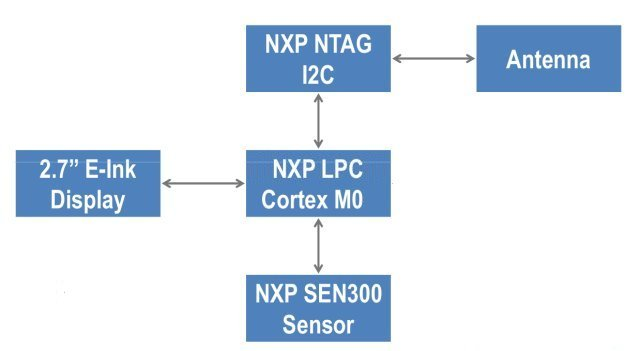
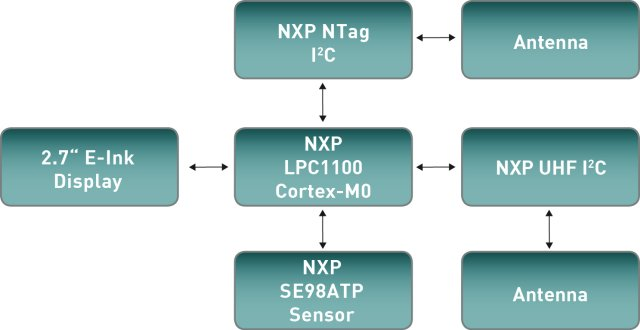
1.0.0H

diff --git a/source/appendix.rst b/source/appendix.rst
@@ -4,5 +4,4 @@ Appendix
 - **APK** stand for Android application PacKage and it is the package format used to distribuite and install application software onto Android operating system.
 - **E-Ink** (electrophoretic ink) is a specific proprietary type of electronic paper manufactured by E Ink Corporation (`E-Ink <http://www.eink.com>`_)
 - **NTAG** The NTAG family has been developed by NXP Semiconductors as standard NFC tag ICs to be used in mass market applications such as retail, gaming and consumer electronics, in combination with NFC devices or NFC compliant Proximity Coupling Devices.
-- **ISO/IEC 7816** is an international standard related to electronic identification cards with contacts, especially smart cards, managed jointly by the International Organization for Standardization (`ISO <http://www.iso.org>`_) and the International Electrotechnical Commission (`IEC <http://www.iec.ch>`_).
 - **LPC** NXP's portfolio of 32-bit LPC microcontrollers builds on 10 years of leadership and includes more than 330 options that cover every application class, from entry-level designs to high-end systems that run Linux OS. See `LPC <http://www.nxp.com/documents/line_card/75017512.pdf>`_.

diff --git a/source/update.rst b/source/update.rst
@@ -1,11 +1,21 @@
 Update
 ======
 
-Android Application Update
---------------------------
+Firmware Update by NFC (only application firmware)
+--------------------------------------------------
 
-Firmware Update
----------------
+.. important:
+
+ | Bootloader must be present on the Louvre board.
+
+- Use this QrCode in order to download and install the Android Updater Application on your phone. This software permits to upgrade the Louvre Application firmware.
+
+.. image:: _images/ArchitechLouvreQR.jpg
+
+When it is installed, launch the Updater Application and put the NFC antenna phone very close to the Louvre board.
+
+Firmware Update by USB (bootloader & application firmware)
+----------------------------------------------------------
 
 To update the firmware from USB you have to short the pin 1 CN4 with pin 2 CN4.
 
@@ -17,4 +27,3 @@ Then plug the mini-usb from the PC to the board.
 
 The LPC11U will run in boot mode and your PC will plug the board as a mass storage device. To update all you need is copy the new firmware renamed "firmware.bin" in the mass storage. Delete first the old one before to copy one newer.
  
-

diff --git a/source/development.rst b/source/development.rst
@@ -49,14 +49,21 @@ Once got the firmware source, unpack it into *C:\\nxp\\workspace* folder.
 Import Project
 --------------
 
-After unpacked the source code you have to import the project. Select from the menu *File -> Import* and before to press *Next* button select *Existing project into Workspace*.
+You can import the project directly from the packed file downloaded before. In order to do this, press on "Import Project":
 
-.. image:: _images/sdk_import_existing_prj.jpg
+.. image:: _images/import_0.jpg
 
-Choose root directory as *C:\\nxp\\workspace* and select *C:\\nxp\\workspace\\SW* project. Then press *Finish* button.
+Then browse and select the "Boot Louvre.zip" file, click on "next" button:
 
-.. image:: _images/sdk_import_firmware.jpg
+.. image:: _images/import_1.jpg
 
+Select all and click another time on "next" button:
+
+.. image:: _images/import_2.jpg
+
+Now you have the project loaded:
+
+.. image:: _images/import_3.jpg
 
 Debug Project
 -------------

diff --git a/source/index.rst b/source/index.rst
@@ -1,9 +1,9 @@
 Welcome to Louvre Board's documentation!
 ========================================
 
-:Version: 1.0.0G
+:Version: 1.0.0H
 :Copyright: (C)2014 Silica an Avnet company
-:Date: 26 Mar 2015
+:Date: 23 Apr 2015
 
 .. image:: _images/louvre_board.jpg
 .. image:: _images/nxp.jpg
@@ -32,12 +32,11 @@ Introduction
 **General Description**
 
 * Small form factor
-* ISO7816 ID1 form factor (creditcard)
 * NXP NTAG I2C
 * NXP Cortex M0 LPC11U37 Microcontroller
 * 2.7 e-ink display
-* SEN300 temperature sensor
-* Micro-USB connector
+* SE98ATP temperature sensor
+* Mini-USB connector
 * Possibility to operate without battery
 * Full size antenna to maximize energy harvesting
 * Four capacitive buttons to enable user interaction

diff --git a/source/board.rst b/source/board.rst
@@ -8,8 +8,8 @@ The Louvre board demo is fitted with these devices:
 
 .. image:: _images/louvre_diagram.jpg
 
-- LPC11U34: is an ARM Cortex-M0 processor
-- SEN300: temperature reader sensor
+- NXP Cortex M0 LPC11U37 Microcontroller
+- SE98ATP temperature sensor
 - NXP NTAG: The NTAG family has been developed by NXP Semiconductors as standard NFC tag ICs to be used in mass market applications such as retail, gaming and consumer electronics, in combination with NFC devices or NFC compliant Proximity Coupling Devices.
 - 2.7” E-Ink EM027BS013 from Pervasive Displays: The 2.7" panel has resolution of 264 x 176 (117 dpi).
 - NXP UHF. not used by firmware

diff --git a/source/quick.rst b/source/quick.rst
@@ -86,7 +86,7 @@ This demo has the purpose to show the communication from the Louvre board to the
 
 .. image:: _images/louvre_usb.jpg
 
-3. The Louvre display on the e-ink screen the temperature read from **SEN300** sensor and the last capacitive button pressed.
+3. The Louvre display on the e-ink screen the temperature read from **SE98ATP** sensor and the last capacitive button pressed.
 
 .. image:: _images/louvre_usb_none.jpg
 
